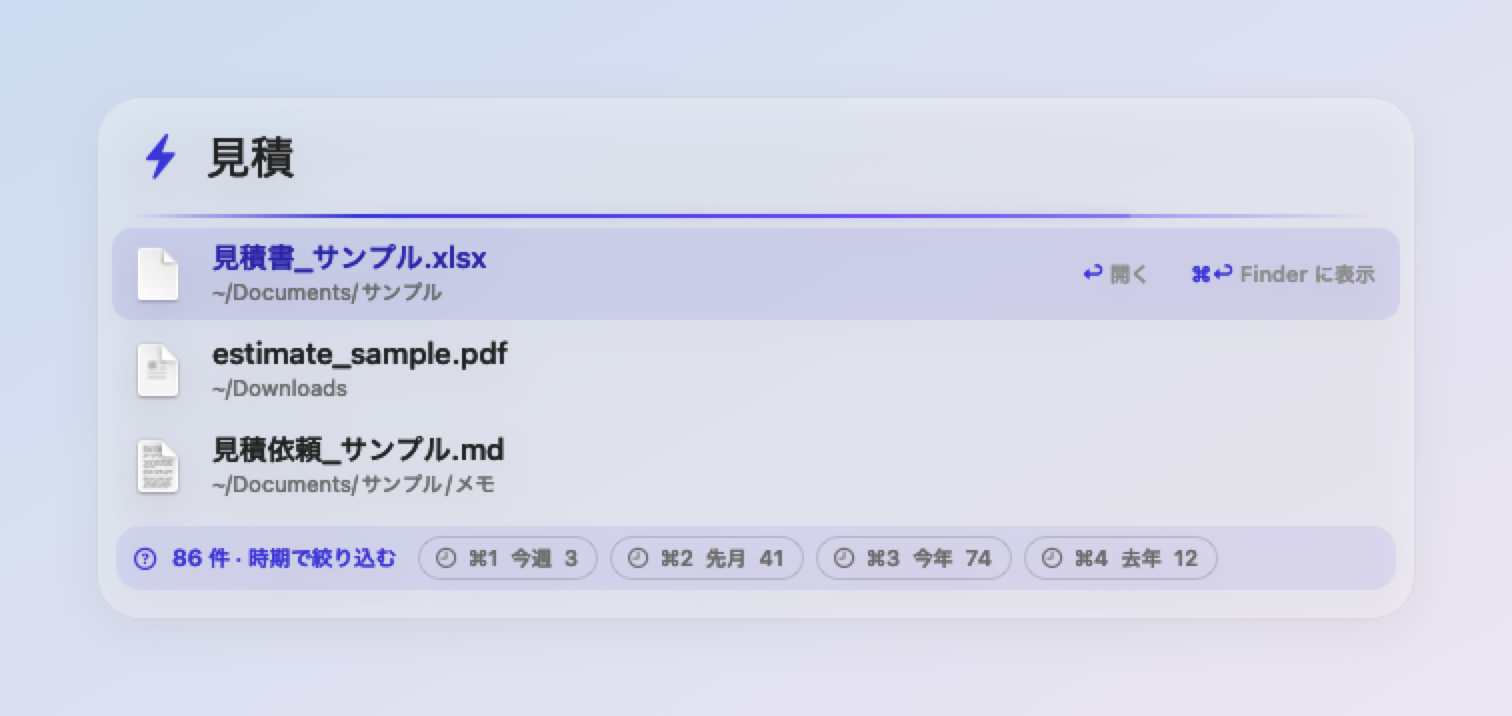
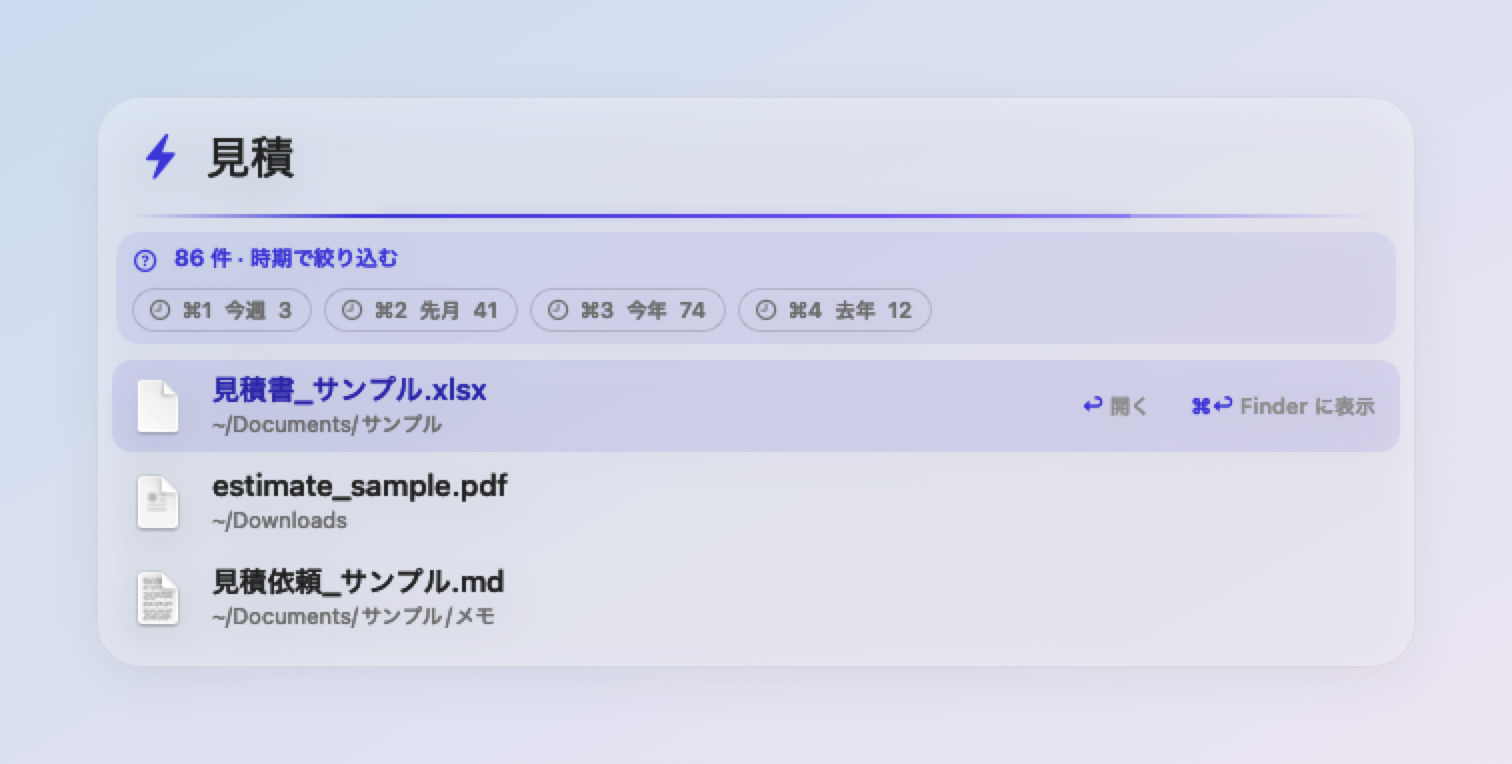
絞り込みの問いを一覧の上（チップの下）に移し、選び先が入りきらないときは折り返す

diff --git a/app/Sources/Raiden/SearchPanel.swift b/app/Sources/Raiden/SearchPanel.swift
@@ -400,7 +400,7 @@ final class SearchPanelController: NSObject, NSTextFieldDelegate, NSWindowDelega
     private var userMoved = false
     private var shownQuery: String?
     private var topHeightConstraint: NSLayoutConstraint!
-    /// 一覧の下の端の行（絞り込みの問い。AskBar）
+    /// 一覧の上の行（絞り込みの問い。AskBar）
     private let footer = NSView()
     private var footerHeightConstraint: NSLayoutConstraint!
     private var footerH: CGFloat = 0
@@ -602,11 +602,12 @@ final class SearchPanelController: NSObject, NSTextFieldDelegate, NSWindowDelega
             topStack.leadingAnchor.constraint(equalTo: content.leadingAnchor),
             topStack.widthAnchor.constraint(equalToConstant: Self.width),
             topHeightConstraint,
-            scroll.topAnchor.constraint(equalTo: topStack.bottomAnchor),
+            // 絞り込みの問い（footer の名前のまま。今はチップの下・一覧の上）
+            footer.topAnchor.constraint(equalTo: topStack.bottomAnchor),
+            scroll.topAnchor.constraint(equalTo: footer.bottomAnchor),
             scroll.leadingAnchor.constraint(equalTo: content.leadingAnchor),
             scroll.widthAnchor.constraint(equalToConstant: Self.width),
             heightConstraint,
-            footer.topAnchor.constraint(equalTo: scroll.bottomAnchor, constant: 2),
             footer.leadingAnchor.constraint(equalTo: content.leadingAnchor),
             footer.widthAnchor.constraint(equalToConstant: Self.width),
             footerHeightConstraint,
@@ -627,7 +628,7 @@ final class SearchPanelController: NSObject, NSTextFieldDelegate, NSWindowDelega
                 return ev
             }
             if ev.keyCode == 1 && mods == .command { self.filterInput.beginSave(); return nil }   // ⌘S
-            // ⌘1〜⌘4: 下の端の絞り込みの問いに答える
+            // ⌘1〜⌘4: 一覧の上の絞り込みの問いに答える
             if mods == .command, let i = [18, 19, 20, 21].firstIndex(of: Int(ev.keyCode)), let sp = self.askSplit, sp.options.indices.contains(i) {
                 self.pickAsk(i); return nil
             }
@@ -746,7 +747,7 @@ final class SearchPanelController: NSObject, NSTextFieldDelegate, NSWindowDelega
         let listH = min(list, maxList)
         heightConstraint.constant = listH
         footerHeightConstraint.constant = footerH
-        var inner = top + listH + (footerH > 0 ? footerH + 2 : 0)
+        var inner = top + listH + footerH
         // プレビューを出している間は、プレビューが読める高さを取る
         if wide { inner = max(inner, min(Self.previewMinHeight, Self.maxPanelHeight - Self.fieldHeight - 16)) }
         let h = Self.fieldHeight + (inner > 0 ? inner + 16 : 0)
@@ -782,19 +783,19 @@ final class SearchPanelController: NSObject, NSTextFieldDelegate, NSWindowDelega
     func setResults(_ sections: [ResultSection], query: String, notFound: Bool = false,
                     extra: [(NSView, CGFloat)] = [], palette: Bool = false, split: RecallSplit? = nil) {
         guard query == filterInput.currentQuery, palette || filterInput.palette == nil else { return }
-        // 下の端の絞り込みの問い（一覧・見つからない・辞書の行き先を選ぶ間は出さない）
+        // 一覧の上の絞り込みの問い（一覧・見つからない・辞書の行き先を選ぶ間は出さない）
         footer.subviews.forEach { $0.removeFromSuperview() }
         askSplit = palette || (notFound && split?.total != 0) || filterInput.isPickingAlias ? nil : split
         filterInput.asking = askSplit != nil
         if let sp = askSplit {
-            let bar = AskBar(sp) { [weak self] i in self?.pickAsk(i) }
+            let bar = AskBar(sp, width: Self.width) { [weak self] i in self?.pickAsk(i) }
             bar.translatesAutoresizingMaskIntoConstraints = false
             footer.addSubview(bar)
             NSLayoutConstraint.activate([
                 bar.topAnchor.constraint(equalTo: footer.topAnchor), bar.bottomAnchor.constraint(equalTo: footer.bottomAnchor),
                 bar.leadingAnchor.constraint(equalTo: footer.leadingAnchor), bar.trailingAnchor.constraint(equalTo: footer.trailingAnchor),
             ])
-            footerH = AskBar.height
+            footerH = bar.preferredHeight
         } else {
             footerH = 0
         }

diff --git a/app/Sources/Raiden/AskBar.swift b/app/Sources/Raiden/AskBar.swift
@@ -1,37 +1,59 @@
 import AppKit
 import RaidenCore
 
-/// 窓の下の端の 1 行: 候補が多いときの絞り込みの問い（「86 件 · 時期で絞り込む  ⌘1 先月 41  ⌘2 …」）。
-/// 上の候補を押し下げないよう一覧の下に置き、検索の結果が届いたとき（打つのを止めたとき）だけ出す。
+/// 入力欄のすぐ下（チップの下・一覧の上）の絞り込みの問い。
+///   1 行目: 「86 件 · 時期で絞り込む」
+///   2 行目から: ⌘1 先月 41  ⌘2 …（窓の幅に入りきらなければ折り返す）
 /// 選び先は ⌘1〜⌘4 か押して決める（数字キーは検索の文字として打てるまま）。決めると打ったときと同じチップになる
 final class AskBar: NSView {
-    static let height: CGFloat = 40
+    private static let padX: CGFloat = 18, padY: CGFloat = 9, headH: CGFloat = 16, gap: CGFloat = 6, spacing: CGFloat = 6
+    /// 中身に合わせた高さ（init で幅から決める）
+    let preferredHeight: CGFloat
 
-    init(_ split: RecallSplit, onPick: @escaping (Int) -> Void) {
-        super.init(frame: .zero)
-        wantsLayer = true
-        let stack = ChipBar.row(in: self)
+    override var isFlipped: Bool { true }
+
+    init(_ split: RecallSplit, width: CGFloat, onPick: @escaping (Int) -> Void) {
         let head = NSTextField(labelWithString: split.total > 0 ? "\(FilterCompletion.countText(split.total)) 件 · \(split.title)" : split.title)
         head.font = .systemFont(ofSize: 11.5, weight: .semibold)
         head.textColor = PanelStyle.indigo
+        head.lineBreakMode = .byTruncatingTail
         let icon = NSImageView(image: symbol("questionmark.circle", size: 11, weight: .semibold) ?? NSImage())
         icon.contentTintColor = PanelStyle.indigo
-        stack.addArrangedSubview(icon)
-        stack.addArrangedSubview(head)
-        stack.setCustomSpacing(10, after: head)
+        var pills: [NSView] = []
         for (i, o) in split.options.enumerated() {
             let n = o.count >= 1000 && o.replaces ? "1000以上" : FilterCompletion.countText(o.count)
             let p = ChipBar.pill("⌘\(i + 1)  \(o.label)  \(n)", symbol: o.symbol, filled: false)
             p.onTap = { onPick(i) }
             p.toolTip = "\(o.command)（⌘\(i + 1)）"
-            stack.addArrangedSubview(p)
+            pills.append(p)
         }
+        // 札を左から詰め、入らなければ次の行へ
+        let maxX = width - Self.padX
+        var frames: [NSRect] = []
+        var x = Self.padX, y = Self.padY + Self.headH + Self.gap, rowH: CGFloat = 0
+        for p in pills {
+            var sz = p.fittingSize
+            sz.width = min(sz.width, maxX - Self.padX)
+            if x > Self.padX && x + sz.width > maxX { x = Self.padX; y += rowH + Self.spacing; rowH = 0 }
+            frames.append(NSRect(x: x, y: y, width: sz.width, height: sz.height))
+            x += sz.width + Self.spacing
+            rowH = max(rowH, sz.height)
+        }
+        preferredHeight = (pills.isEmpty ? Self.padY + Self.headH : y + rowH) + Self.padY + 4   // 一覧の 1 行目とくっつかないよう下に 4
+        super.init(frame: NSRect(x: 0, y: 0, width: width, height: preferredHeight))
+        wantsLayer = true
+        let isz = icon.image?.size ?? .zero
+        icon.frame = NSRect(x: Self.padX, y: Self.padY + (Self.headH - isz.height) / 2, width: isz.width, height: isz.height)
+        let hx = Self.padX + isz.width + 5
+        head.frame = NSRect(x: hx, y: Self.padY, width: maxX - hx, height: Self.headH)
+        for v in [icon, head] as [NSView] + pills { v.translatesAutoresizingMaskIntoConstraints = true; addSubview(v) }
+        for (p, f) in zip(pills, frames) { p.frame = f }
     }
 
     required init?(coder: NSCoder) { fatalError() }
 
     override func draw(_ dirtyRect: NSRect) {
-        let r = bounds.insetBy(dx: 10, dy: 4)
+        let r = NSRect(x: 10, y: 3, width: bounds.width - 20, height: bounds.height - 10)
         let p = NSBezierPath(roundedRect: r, xRadius: 12, yRadius: 12)
         PanelStyle.indigo.withAlphaComponent(0.08).setFill()
         p.fill()

diff --git a/app/Sources/Raiden/FilterUI.swift b/app/Sources/Raiden/FilterUI.swift
@@ -40,7 +40,7 @@ final class FilterInput {
     var clips: () -> [ClipItem] = { [] }
 
     var isPickingAlias: Bool { aliasPhrase != nil }
-    /// 下の端に絞り込みの問いを出している（出している間は「続けて」の候補を出さない）
+    /// 一覧の上に絞り込みの問いを出している（出している間は「続けて」の候補を出さない）
     var asking = false
     /// クリップボードの履歴を出している間（専用のキーか #clip）。入力欄の文字で履歴を絞る
     private(set) var clipMode = false
@@ -699,7 +699,7 @@ enum FilterSnapshots {
         c.setResults([ResultSection(title: "ファイル・フォルダ", symbol: "folder", items: Array(rows))], query: q)
         Snapshot.capture(c, dir + "/option-chips.png")
 
-        // 候補が多いときの絞り込みの問い（下の端）。候補と件数は見本
+        // 候補が多いときの絞り込みの問い（一覧の上）。候補と件数は見本
         let ak = panel("見積")
         let akRows = [("見積書_サンプル.xlsx", "~/Documents/サンプル", UTType.spreadsheet), ("estimate_sample.pdf", "~/Downloads", UTType.pdf),
                       ("見積依頼_サンプル.md", "~/Documents/サンプル/メモ", UTType.plainText)].map {
@@ -718,6 +718,15 @@ enum FilterSnapshots {
             .init(label: "メール添付", symbol: "envelope", command: "#src mail", count: 8)])
         ak2.setResults([ResultSection(title: "ファイル・フォルダ", symbol: "folder", items: Array(akRows.prefix(2)))], query: ak2.filterInput.currentQuery, split: akSplit2)
         Snapshot.capture(ak2, dir + "/recall-ask2.png")
+        // 長い場所の名前で 1 行に入りきらないときは折り返す
+        let ak3 = panel("docx")
+        let akSplit3 = RecallSplit(title: "場所で絞り込む", total: 2018, options: [
+            .init(label: "sample-studio", symbol: "folder", command: "#path ~/Project/sample-studio", count: 724),
+            .init(label: "sample-studio-wt-fonts", symbol: "folder", command: "#path ~/Project/sample-studio-wt-fonts", count: 274),
+            .init(label: "sample-docs-archive", symbol: "folder", command: "#path ~/Documents/sample-docs-archive", count: 160),
+            .init(label: "Downloads", symbol: "folder", command: "#path ~/Downloads", count: 92)])
+        ak3.setResults([ResultSection(title: "ファイル・フォルダ", symbol: "folder", items: akRows)], query: ak3.filterInput.currentQuery, split: akSplit3)
+        Snapshot.capture(ak3, dir + "/recall-ask-wrap.png")
         // 見つからないときの「探し方を変える」（件数は見本）
         let nf = panel("見積", committed: ["#date 先月", "#kind pdf"])
         let nfSplit = RecallSplit(title: "探し方を変える", total: 0, options: [
